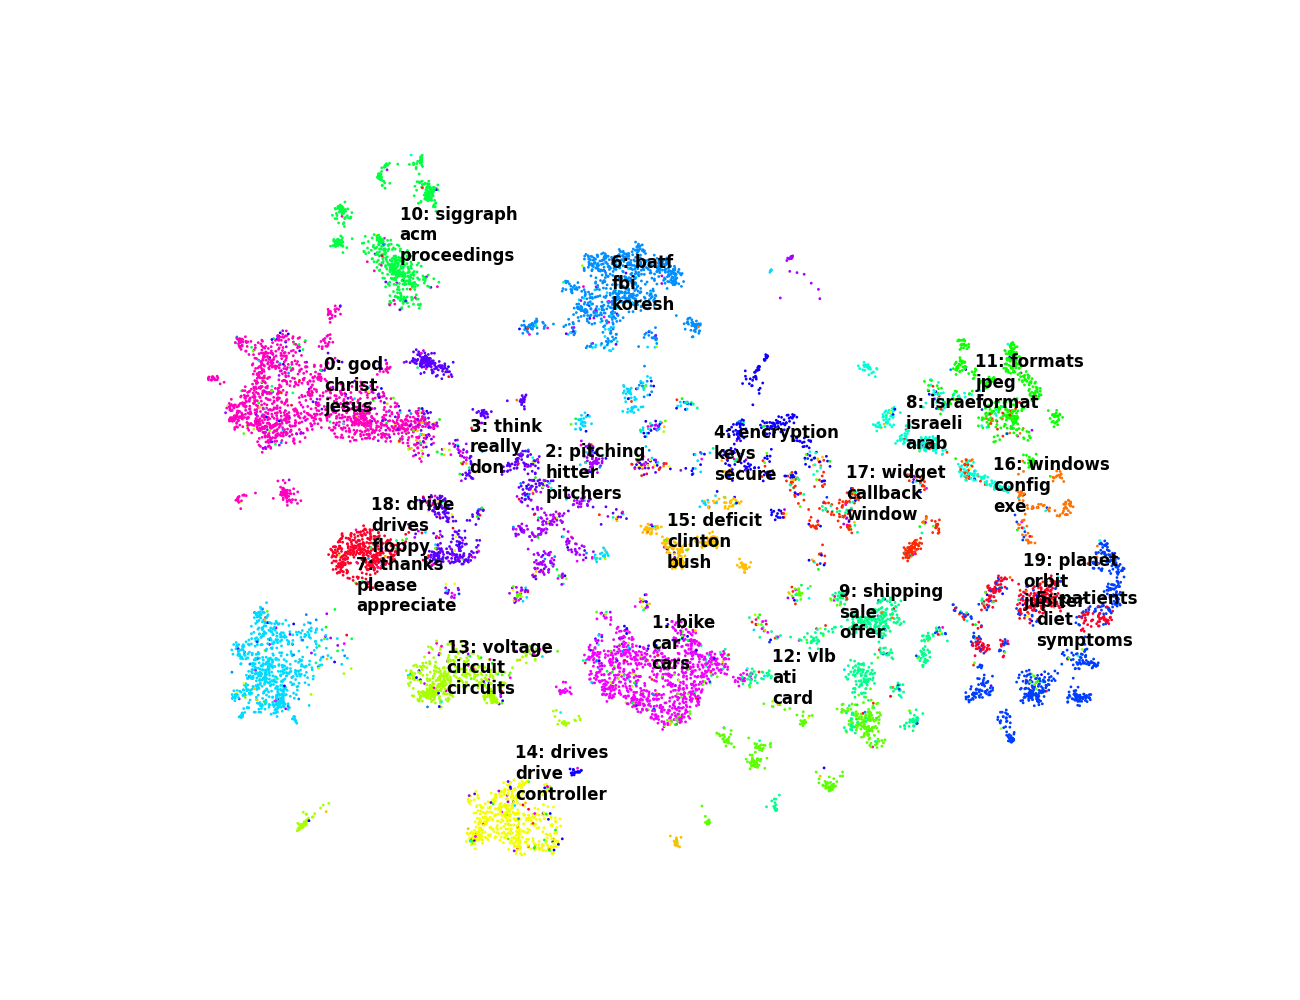
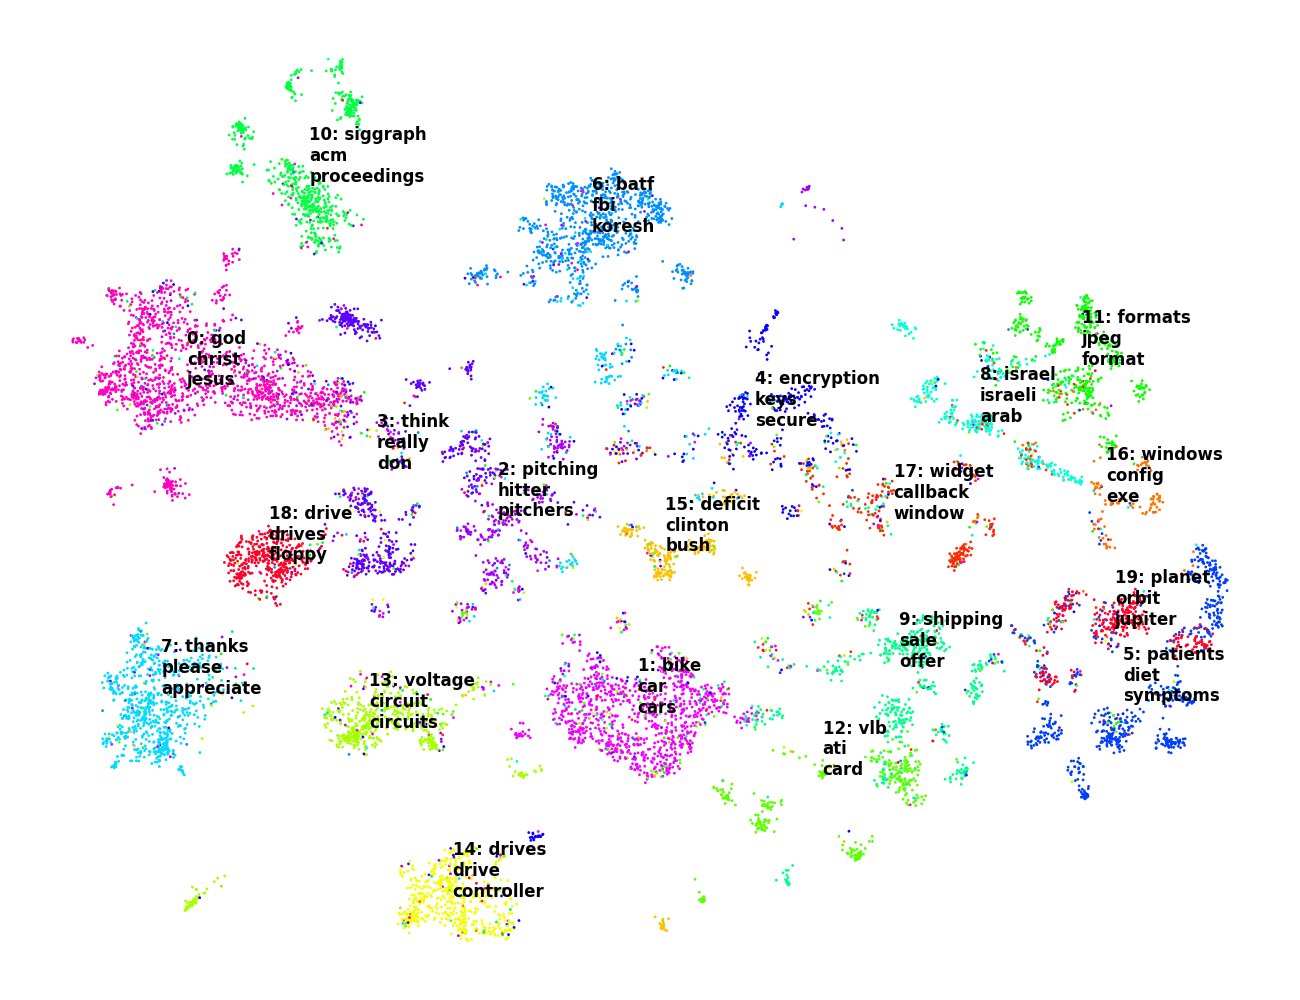
Add tight layout

diff --git a/Scripts/tripadvisor_map.py b/Scripts/tripadvisor_map.py
@@ -7,18 +7,14 @@ import matplotlib as mpl
 from os.path import join
 
 params = get_params()
-filename = join(params["path models"],
-                params["tripadvisor model"])
+filename = join(params["path models"], params["tripadvisor model"])
 model = Top2Vec.load(filename)
-filename = join(params["path results"],
-                "tripadvisor_clustered.csv")
+filename = join(params["path results"], "tripadvisor_clustered.csv")
 clustered = read_csv(filename)
-centroids = get_centroid_topics(clustered,
-                                model)
+centroids = get_centroid_topics(clustered, model)
 bounds = list(range(0, 15))
 cmap = mpl.cm.gist_rainbow_r
-norm = mpl.colors.BoundaryNorm(bounds,
-                               cmap.N)
+norm = mpl.colors.BoundaryNorm(bounds, cmap.N)
 plt.subplots(figsize=(13, 10))
 plt.scatter(clustered.x,
             clustered.y,
@@ -29,12 +25,13 @@ plt.scatter(clustered.x,
 for index, data in centroids.items():
     topic_name = data["topic name"]
     centroid = data["centroid"]
-    plt.text(centroid[0],
-             centroid[1],
-             topic_name,
-             fontsize=12,
-             weight='bold')
+    if "14" not in topic_name:
+        plt.text(centroid[0],
+                 centroid[1],
+                 topic_name,
+                 fontsize=12,
+                 weight='bold')
 plt.axis("off")
-filename = join(params["path graphics"],
-                "tripadvisor_clustered.png")
+filename = join(params["path graphics"], "tripadvisor_clustered.png")
+plt.tight_layout()
 plt.savefig(filename)

diff --git a/Scripts/yahoo_map.py b/Scripts/yahoo_map.py
@@ -7,7 +7,7 @@ import matplotlib as mpl
 from os.path import join
 
 params = get_params()
-filename = join(params["path data"],
+filename = join(params["path models"],
                 params["yahoo model"])
 model = Top2Vec.load(filename)
 filename = join(params["path results"],
@@ -25,7 +25,7 @@ plt.scatter(clustered.x,
             c=clustered["topic"],
             cmap=cmap,
             norm=norm,
-            s=1)
+            s=2)
 for index, data in centroids.items():
     topic_name = data["topic name"]
     centroid = data["centroid"]
@@ -37,4 +37,5 @@ for index, data in centroids.items():
 plt.axis("off")
 filename = join(params["path graphics"],
                 "yahoo_clustered.png")
+plt.tight_layout()
 plt.savefig(filename)

diff --git a/Scripts/Modules/functions.py b/Scripts/Modules/functions.py
@@ -1,7 +1,7 @@
 from pandas import DataFrame
 from typing import Callable
 from hdbscan import HDBSCAN
-from numpy import mean
+from numpy import median
 
 
 def get_centroid_topics(cluster: DataFrame, top2vec_model: Callable) -> dict:
@@ -13,8 +13,8 @@ def get_centroid_topics(cluster: DataFrame, top2vec_model: Callable) -> dict:
         subcluster = cluster[cluster["topic"] == topic]
         x = subcluster["x"].to_numpy()
         y = subcluster["y"].to_numpy()
-        c_x = mean(x)
-        c_y = mean(y)
+        c_x = median(x)
+        c_y = median(y)
         c = [c_x, c_y]
         centroids[topic]["centroid"] = c
         centroids[topic]["topic name"] = topic_name

diff --git a/Scripts/news_map.py b/Scripts/news_map.py
@@ -7,7 +7,7 @@ import matplotlib as mpl
 from os.path import join
 
 params = get_params()
-filename = join(params["path data"],
+filename = join(params["path models"],
                 params["news model"])
 model = Top2Vec.load(filename)
 filename = join(params["path results"],
@@ -37,4 +37,5 @@ for index, data in centroids.items():
 plt.axis("off")
 filename = join(params["path graphics"],
                 "news_clustered.png")
+plt.tight_layout()
 plt.savefig(filename)

diff --git a/Scripts/Modules/params.py b/Scripts/Modules/params.py
@@ -3,7 +3,7 @@ from os import makedirs
 
 def get_params() -> dict:
     params = {
-        "path data": ".Data",
+        "path data": "Data",
         "path results": "Results",
         "path models": "Models",
         "path graphics": "Graphics",
